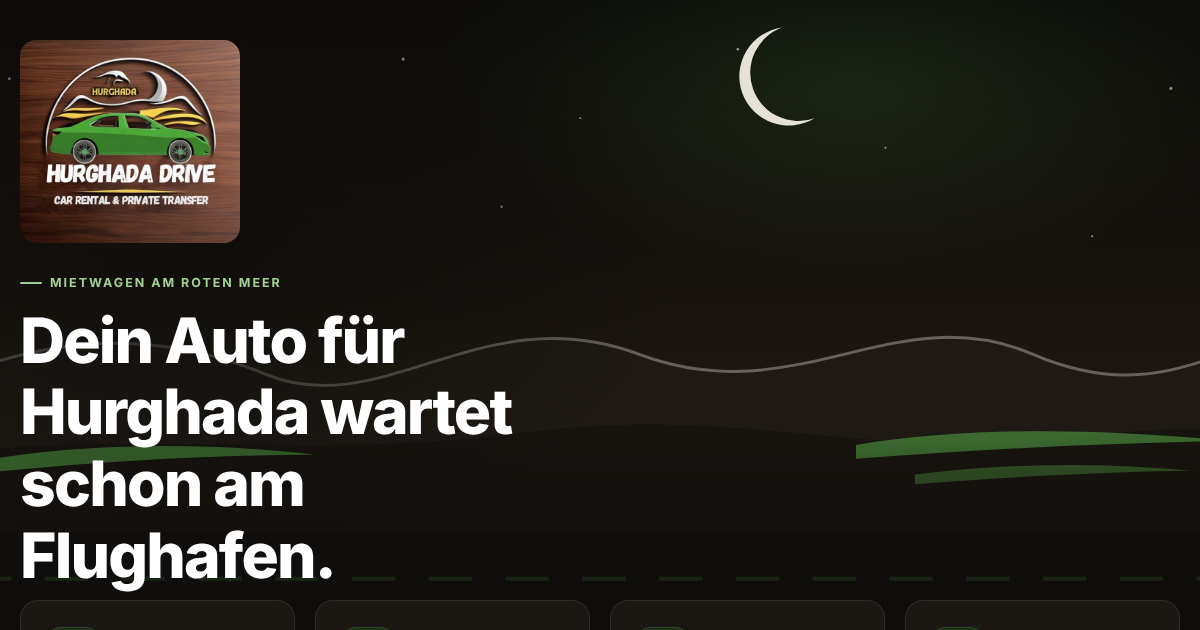
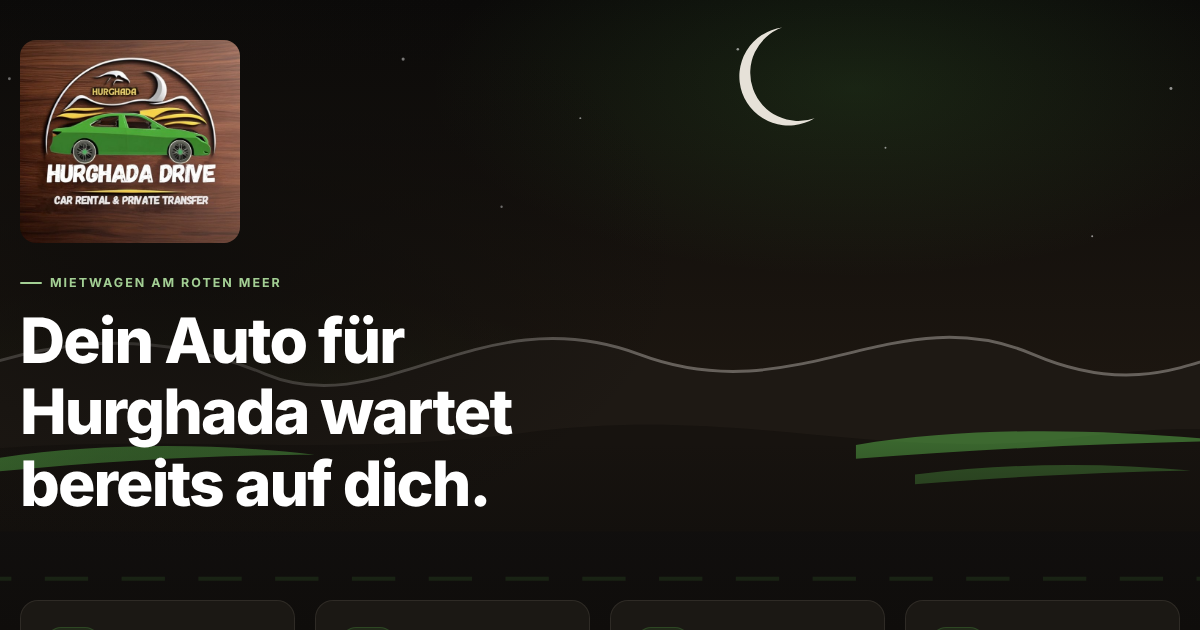
Update hero headline and intro text in all languages
Claude-Session: https://claude.ai/code/session_0189UCeSz8CHPMXoXUsCAipJ

Changed region(s): [[0.0, 0.7238, 0.4008, 0.8143], [0.0, 0.8444, 0.2775, 0.9349]]

diff --git a/js/i18n.js b/js/i18n.js
@@ -86,8 +86,8 @@ window.I18N = {
       "wa.float": "Open WhatsApp chat",
 
       "hero.eyebrow": "Car rental on the Red Sea",
-      "hero.title": "Your car in Hurghada is already waiting at the airport.",
-      "hero.lead": "Handover at the airport or right at your hotel, fair fixed prices and air conditioning in every car. Send your request via WhatsApp and get a quick reply.",
+      "hero.title": "Your car in Hurghada is already waiting for you.",
+      "hero.lead": "Handover right at the airport, your hotel or your holiday apartment. We offer fair fixed prices and clean, well-maintained cars with air conditioning. Send your request via WhatsApp and we'll get back to you as quickly as possible.",
       "hero.cta": "Request a car",
       "hero.usp1": "✓ Handover at Hurghada Airport (HRG)",
       "hero.usp2": "✓ No hidden fees",
@@ -263,8 +263,8 @@ window.I18N = {
       "wa.float": "فتح محادثة واتساب",
 
       "hero.eyebrow": "تأجير سيارات على البحر الأحمر",
-      "hero.title": "سيارتك في انتظارك في مطار الغردقة.",
-      "hero.lead": "التسليم في المطار أو أمام فندقك مباشرةً، أسعار ثابتة وعادلة، وتكييف في كل سيارة. أرسل طلبك عبر واتساب وستحصل على رد سريع.",
+      "hero.title": "سيارتك في الغردقة بانتظارك بالفعل.",
+      "hero.lead": "التسليم مباشرةً في المطار أو في فندقك أو شقتك السياحية. نقدم أسعارًا ثابتة وعادلة وسيارات نظيفة ومُعتنى بصيانتها ومزودة بالتكييف. أرسل طلبك عبر واتساب وسنتواصل معك في أسرع وقت ممكن.",
       "hero.cta": "اطلب سيارة",
       "hero.usp1": "✓ التسليم في مطار الغردقة (HRG)",
       "hero.usp2": "✓ بدون رسوم خفية",
@@ -440,8 +440,8 @@ window.I18N = {
       "wa.float": "Открыть чат WhatsApp",
 
       "hero.eyebrow": "Аренда авто на Красном море",
-      "hero.title": "Ваш автомобиль уже ждёт вас в аэропорту Хургады.",
-      "hero.lead": "Выдача автомобиля в аэропорту или прямо у отеля, честные фиксированные цены и кондиционер в каждой машине. Отправьте заявку в WhatsApp и быстро получите ответ.",
+      "hero.title": "Ваш автомобиль в Хургаде уже ждёт вас.",
+      "hero.lead": "Передача автомобиля прямо в аэропорту, у вашего отеля или апартаментов. У нас честные фиксированные цены и чистые, ухоженные автомобили с кондиционером. Отправьте заявку в WhatsApp, и мы свяжемся с вами как можно скорее.",
       "hero.cta": "Арендовать авто",
       "hero.usp1": "✓ Выдача в аэропорту Хургады (HRG)",
       "hero.usp2": "✓ Без скрытых платежей",
@@ -617,8 +617,8 @@ window.I18N = {
       "wa.float": "Ouvrir le chat WhatsApp",
 
       "hero.eyebrow": "Location de voiture sur la mer Rouge",
-      "hero.title": "Votre voiture vous attend déjà à l'aéroport de Hurghada.",
-      "hero.lead": "Remise à l'aéroport ou directement à votre hôtel, prix fixes et justes, et climatisation dans toutes les voitures. Envoyez votre demande par WhatsApp et recevez une réponse rapide.",
+      "hero.title": "Votre voiture à Hurghada vous attend déjà.",
+      "hero.lead": "Remise directement à l'aéroport, à votre hôtel ou à votre appartement de vacances. Nous proposons des prix fixes et justes, ainsi que des voitures propres, bien entretenues et climatisées. Envoyez votre demande par WhatsApp et nous vous répondrons dans les plus brefs délais.",
       "hero.cta": "Demander une voiture",
       "hero.usp1": "✓ Remise à l'aéroport de Hurghada (HRG)",
       "hero.usp2": "✓ Aucun frais caché",

diff --git a/index.html b/index.html
@@ -145,8 +145,8 @@
     <div class="container hero-inner">
       <div class="hero-text">
         <p class="eyebrow" data-i18n="hero.eyebrow">Mietwagen am Roten Meer</p>
-        <h1 data-i18n="hero.title">Dein Auto für Hurghada wartet schon am Flughafen.</h1>
-        <p class="lead" data-i18n="hero.lead">Übergabe am Flughafen oder direkt am Hotel, faire Festpreise und alle Autos mit Klimaanlage. Du fragst per WhatsApp an und bekommst schnell eine Antwort.</p>
+        <h1 data-i18n="hero.title">Dein Auto für Hurghada wartet bereits auf dich.</h1>
+        <p class="lead" data-i18n="hero.lead">Übergabe direkt am Flughafen, deinem Hotel oder deiner Ferienwohnung. Wir haben faire Festpreise, saubere und gut gewartete Autos mit Klimaanlage. Du fragst per WhatsApp an und wir melden uns so schnell wie möglich bei dir zurück.</p>
         <div class="hero-cta">
           <a href="#buchen" class="btn btn-accent btn-large" data-i18n="hero.cta">Auto anfragen</a>
           <a href="#" class="btn btn-ghost btn-large" data-whatsapp>
